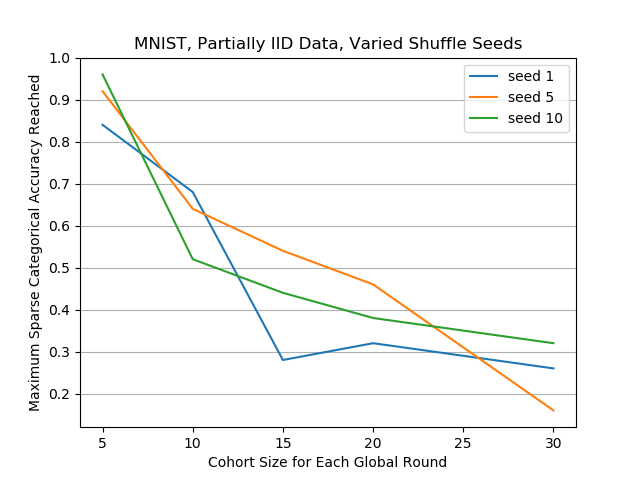
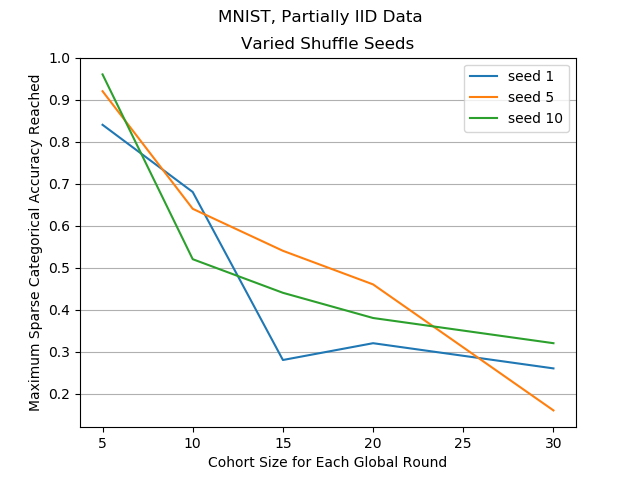
code to run first batch on server in a while

Changed region(s): [[0.1875, 0.0, 0.8125, 0.125]]

diff --git a/R_partitioner.py b/R_partitioner.py
@@ -100,7 +100,7 @@ class Partitioner:
 
 			# construct value array
 			# learning rate chosen/iterates first, batch size second, ...
-			shuffle_seed = [1, 5, 10]
+			shuffle_seed = [1, 5, 10, 14, 20]
 			percent_data_iid = [80]  # schema 1
 			percent_clients_iid = [50]  # schema 2
 			cohort_size = [5, 10, 15, 20, 30] 
@@ -131,7 +131,8 @@ class Partitioner:
 			# 	self.LR = 0.1
 
 			# set number of rounds based on cohort size
-			self.ROUND_LIMIT = 60 // self.COHORT_SIZE
+			# self.ROUND_LIMIT = 60 // self.COHORT_SIZE
+			self.ROUND_LIMIT = 12
 
 		# set numpy shuffle seed for random generator objects
 		# multiply seed to be large enough to be effective

diff --git a/results/3/graph.py b/results/3/graph.py
@@ -29,6 +29,7 @@ for i in range(3):
 plt.grid(b=True, which='both', axis='y')
 plt.xlabel('Cohort Size for Each Global Round')
 plt.ylabel('Maximum Sparse Categorical Accuracy Reached')
-plt.title("MNIST, Partially IID Data, Varied Shuffle Seeds")
+plt.title("Varied Shuffle Seeds")
+plt.suptitle("MNIST, Partially IID Data")
 plt.legend()
 plt.savefig("results/3/accuracy_vs_cohort.png")
